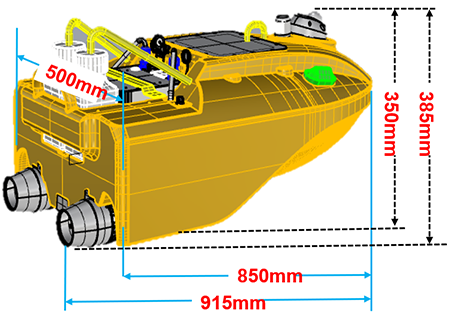
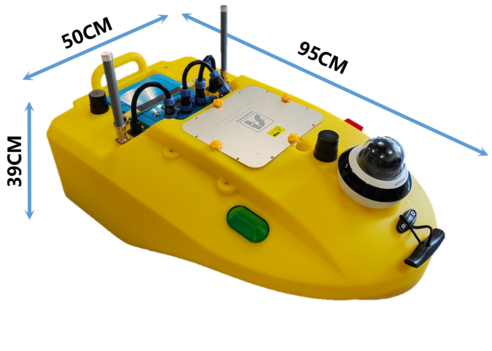
fix: 规范文档内容

diff --git a/conf.py b/conf.py
@@ -19,8 +19,8 @@
 
 project = 'XEducate'
 # noinspection PyShadowingBuiltins
-copyright = '2023, 熊俊峰'
-author = '熊俊峰'
+copyright = '2023, 广州工业智能研究院'
+author = '广州工业智能研究院'
 
 # The full version, including alpha/beta/rc tags
 release = '1.0.0'

diff --git a/Introduction.md b/Introduction.md
@@ -1,5 +1,24 @@
 # 教程简介
 
-SL900科教无人艇旨在为高等学校、科研院所，提供高稳定性、高可靠性、高便捷性的无人船控制平台，及无人船感知、导航、控算和决策等专业学习教程。可应用于无人船学科探索、无人船竞赛、无人船巡检/检测/养殖等应用场景研究。
+SL900科教无人艇旨在为高等学校、科研院所和业余爱好者群体，提供高稳定性、高可靠性、高便捷性的无人船控制平台，及无人船感知、导航、控算和决策等专业学习教程。可应用于无人船学科探索、无人船竞赛、无人船巡检/检测/养殖等应用场景研究。借助该平台，用户能够快速搭建无人船控制平台、快速扩展高性能平台或传感器，以大幅度缩短控制平台研发周期，并可协助用户将更多精力集中在理论研究、算法论证、竞赛战术、产品研发等核心应用上。
+
+SL900科教无人艇旨在为高等学校、科研院所和业余爱好者群体，提供高稳定性、高可靠性、高便捷性的无人船控制平台，及无人船感知、导航、控算和决策等专业学习教程。可应用于无人船学科探索、无人船竞赛、无人船巡检/检测/养殖等应用场景研究。借助该平台，用户能够快速搭建无人船控制平台、快速扩展高性能平台或传感器，以大幅度缩短控制平台研发周期，并可协助用户将更多精力集中在理论研究、算法论证、竞赛战术、产品研发等核心应用上。
 
 教程主要分为三个部分，包括硬件组成、遥控器使用说明、地面站使用说明。
+
+## 系统概览
+
+![Overview](Images/Overview.png)
+
+## 规格参数
+
+| **型号**   | SL900-T        | **船体**    | 阻燃型PE高分子材料       |
+|----------|----------------|-----------|------------------|
+| **船体尺寸** | L950*W500*H390 | **吃水深度**  | <0.15m           |
+| **船体重量** | 约15KG（含电池）     | **抗风浪级别** | 3级               |
+| **最大航速** | > 4m/s         | **控制方式**  | 遥控、上位机软件         |
+| **续航能力** | 约60分钟（15Ah电池）  | **通信方式**  | 4G LTE / RF 无线射频 |
+
+```{attention}
+以上参数仅供参考，因环境不同，参数可能有所不同，以实地测试为准。
+```

diff --git a/Transmitter/Index.md b/Transmitter/Index.md
@@ -1,18 +1,14 @@
 # 遥控器
 
-本节主要介绍软件常用的功能与按键操作演示,遥控器常用控件主要为电源、SB、左右摇杆。
-
-遥控器正面
+本节主要介绍软件常用的功能与按键操作演示，遥控器常用控件主要为电源、SB、左右摇杆。
 
 ![Front](Images/Front.png)
-
-遥控器反面
 
 ![Back](Images/Back.png)
 
 ## 遥控器主要功能
 
-遥控器的主要功能分为遥控模式与非遥控模式，SB控件分为上、中、下三档，其中、上两档为非遥控模式，此时遥控器的左右摇杆无法控件电机转动。将SB控件拨至最下方，此时为遥控模式，左摇杆往前推动，控制电机往后排水，船体向前运动，左摇杆往后推动，控制电机往前排水，船体向后倒退；右摇杆控制船体转向，右摇杆往左推动，船体往左转，右摇杆往右推动，船体往右转。
+遥控器的主要功能分为遥控模式与非遥控模式，SB控件分为上、中、下三档，其中，上档表示锁定，中档表示遥控，下档表示开始执行任务（任务由地面站上传给船控）。将SB控件拨至最中档，此时为遥控模式，左摇杆往前推动，控制电机往后排水，船体向前运动，左摇杆往后推动，控制电机往前排水，船体向后倒退；右摇杆控制船体转向，右摇杆往左推动，船体往左转，右摇杆往右推动，船体往右转。
 
 ## 遥控器操作说明
 
@@ -21,10 +17,4 @@
 * 触控屏右上角表示当前遥控器所剩电量，左下角Ext表示船体供电电池所剩电量
 * 往下拨动SB控件至底部，由非遥控模式变为遥控模式，往前推动左摇杆，电机往后排水，往后推动左摇杆，电机往前排水，左推右摇杆，右点击往后排水，右推右摇杆，左电机往后排水
 
-遥控器触控屏确定按键
-
 ![Confirm](Images/Confirm.png)
-
-遥控器触控屏信息
-
-![Information](Images/Information.png)

diff --git a/Hardware/Index.md b/Hardware/Index.md
@@ -4,14 +4,21 @@
 
 系统包括主控系统、导航系统、通信系统、供电系统、推进系统、遥控器和地面站。
 
-## 系统概览
-
-![Overview](Images/Overview.png)
-
-## 整体尺寸
+## 船体尺寸图
 
 ![Size](Images/Size.png)
 
-## 整体电路
+## 主要硬件介绍
+
+### 硬件接线示意图
 
 ![Wiring](Images/Wiring.png)
+
+### 主要硬件设备及用途介绍
+
+* **无人艇驱动器**：无人艇正常运行的必要硬件，内部集成电源管理模块、GNSS导航模块、遥控器接收机、ESP32主控模块、串口管理模块等，控制无人船姿态
+* **工控机**：运行外部控制程序及其他系统集成，给无人艇发送外部控制命令、感知信息、网络信号、差分信号等
+* **推进器**：电机旋转带动桨叶，从而给无人艇行进提供动力
+* **铁锂电池**：6S 15000mAh ，无人艇的动力来源，自带BMS
+* **摄像头**： 用于实时视频回传
+* **4G路由路**： 实现异地远程控制，及数据传输

diff --git a/GControl/Index.md b/GControl/Index.md
@@ -45,15 +45,15 @@
 
 ![Maps](Images/Maps.png)
 
-* 对地图进行搜索，
-* 顺时针和逆时针旋转地图，
-* 改变地图的俯仰角度，
+* 对地图进行搜索
+* 顺时针和逆时针旋转地图
+* 改变地图的俯仰角度
 * 对地图进行缩小和放大
 
 ## 快捷键
 
-* 地图刷新，可更新地图瓦片至最新：F5
-* 地图平移：上下左右箭头
-* 地图旋转：Ctrl+左右箭头
-* 地图投影：Ctrl+上下箭头
-* 地图放缩：鼠标滚轮、触摸板捏合和轻弹
+* **地图刷新**，可更新地图瓦片至最新：F5
+* **地图平移**：上下左右箭头
+* **地图旋转**：Ctrl+左右箭头
+* **地图投影**：Ctrl+上下箭头
+* **地图放缩**：鼠标滚轮、触摸板捏合和轻弹
